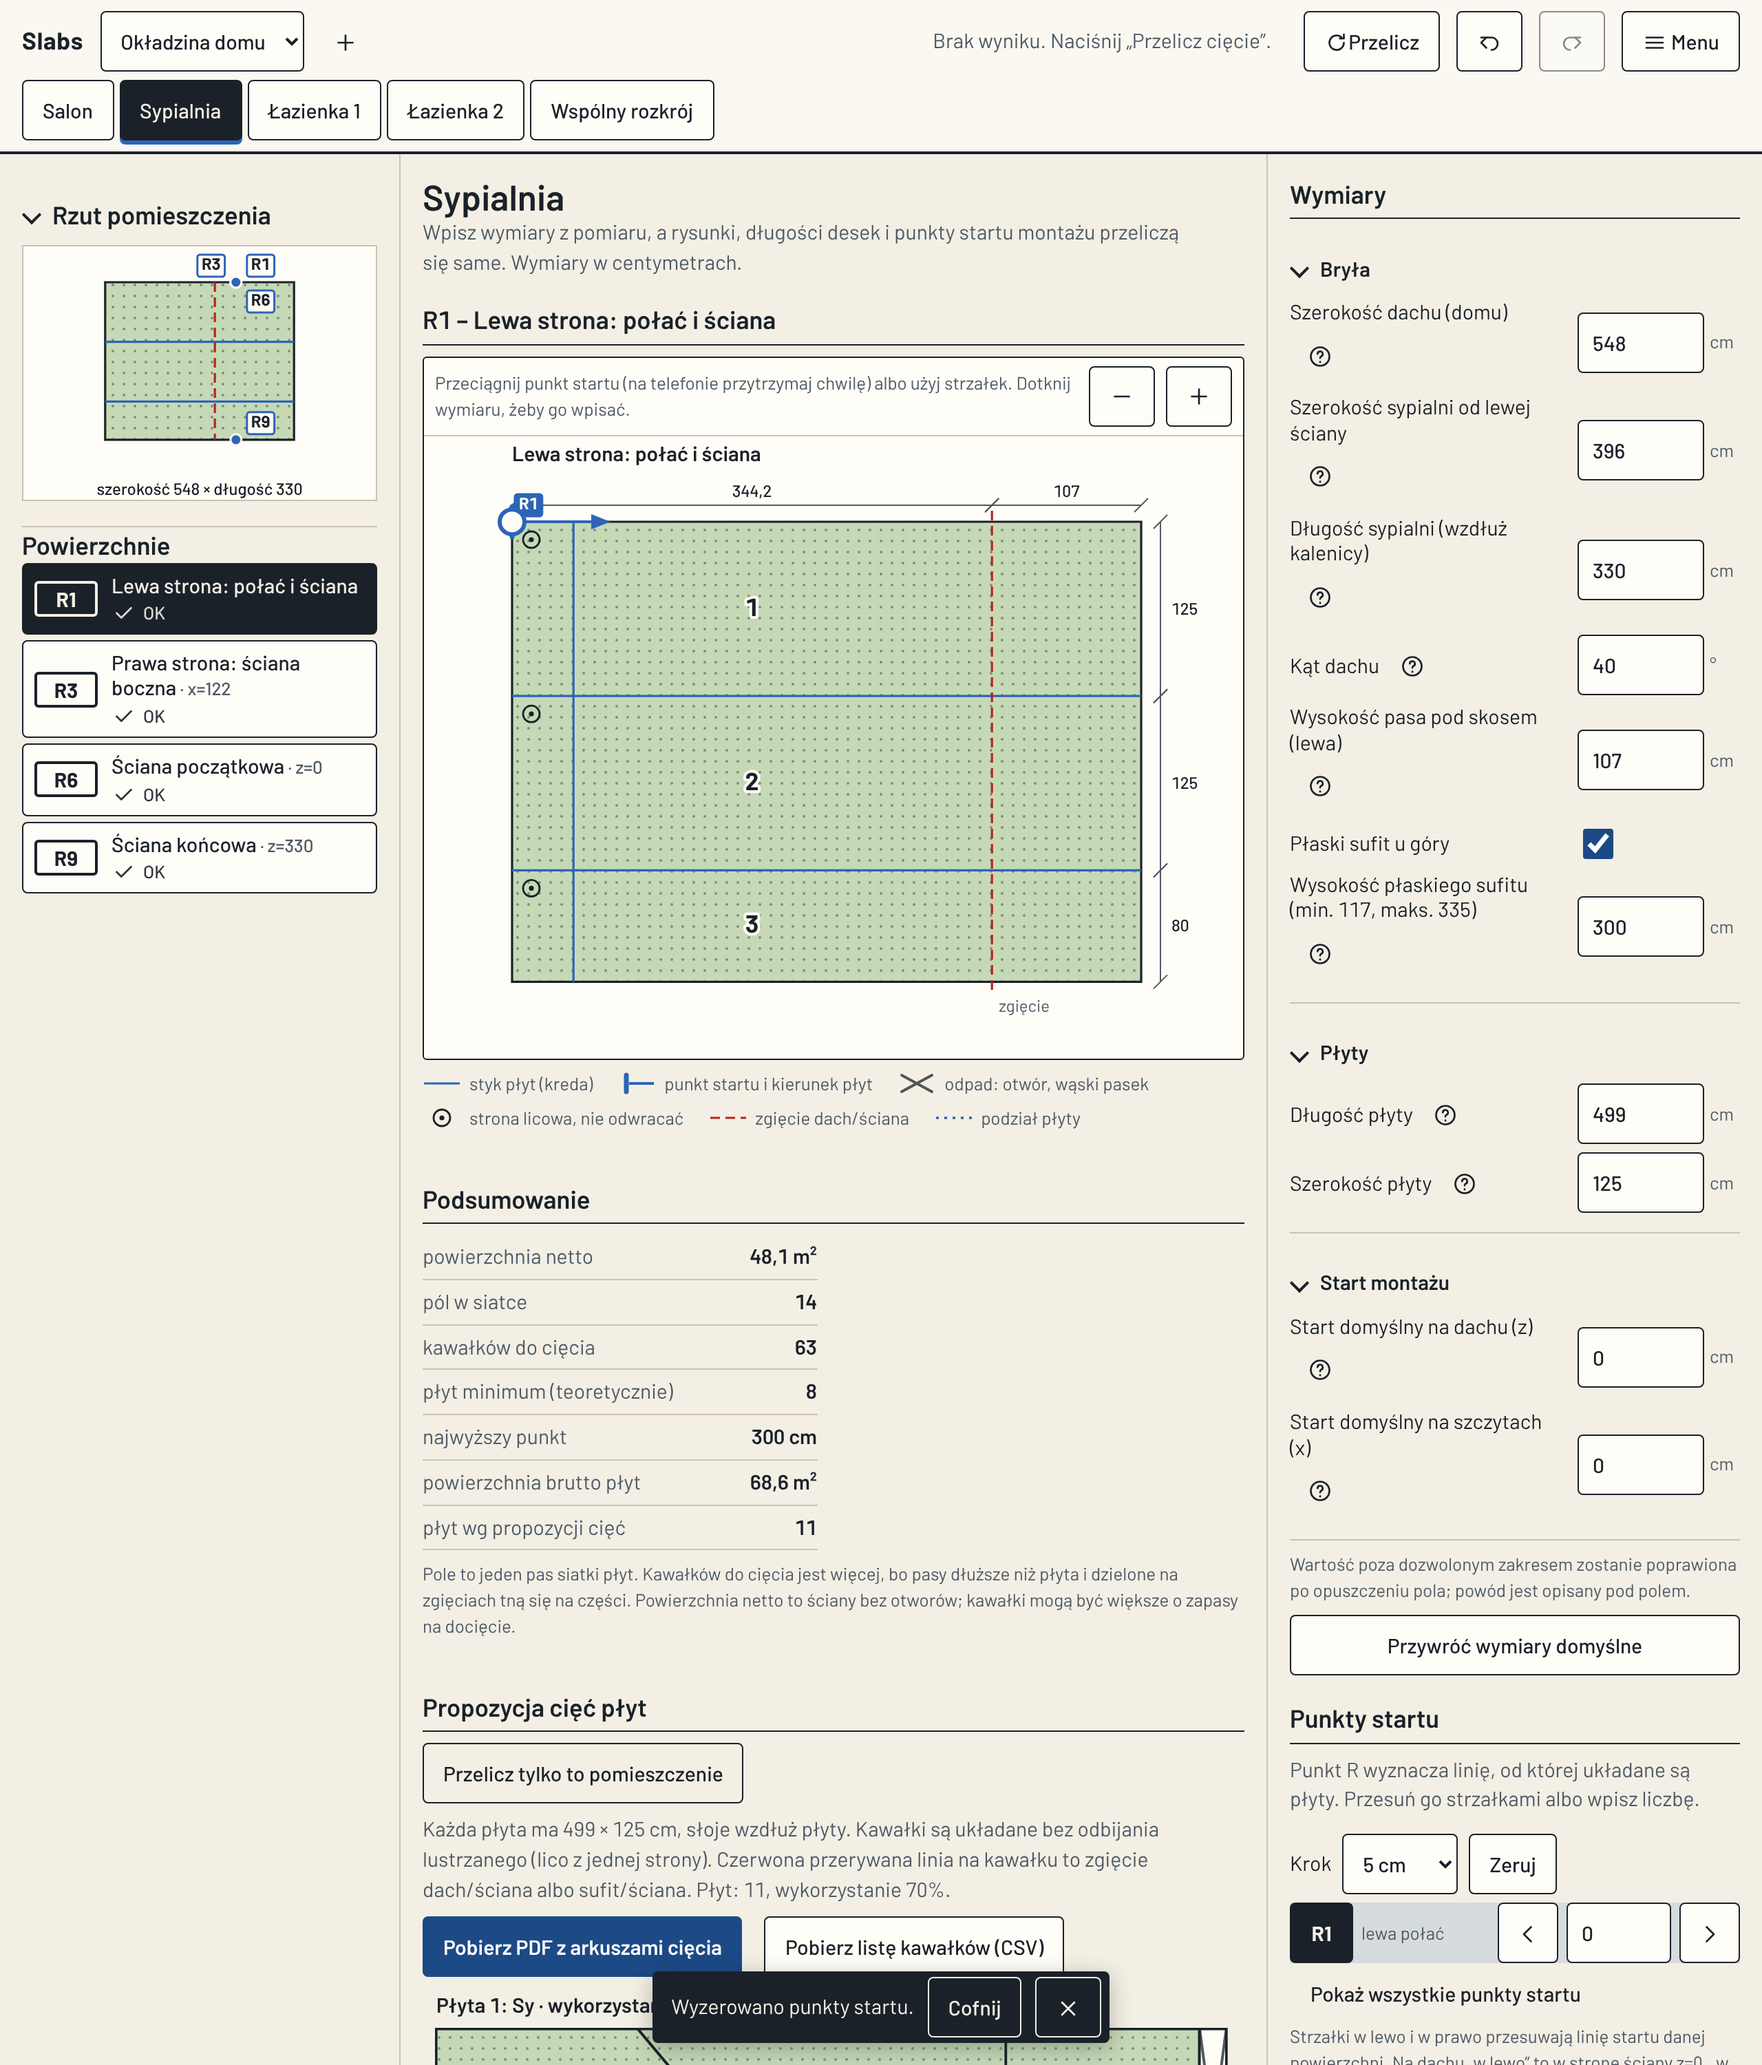
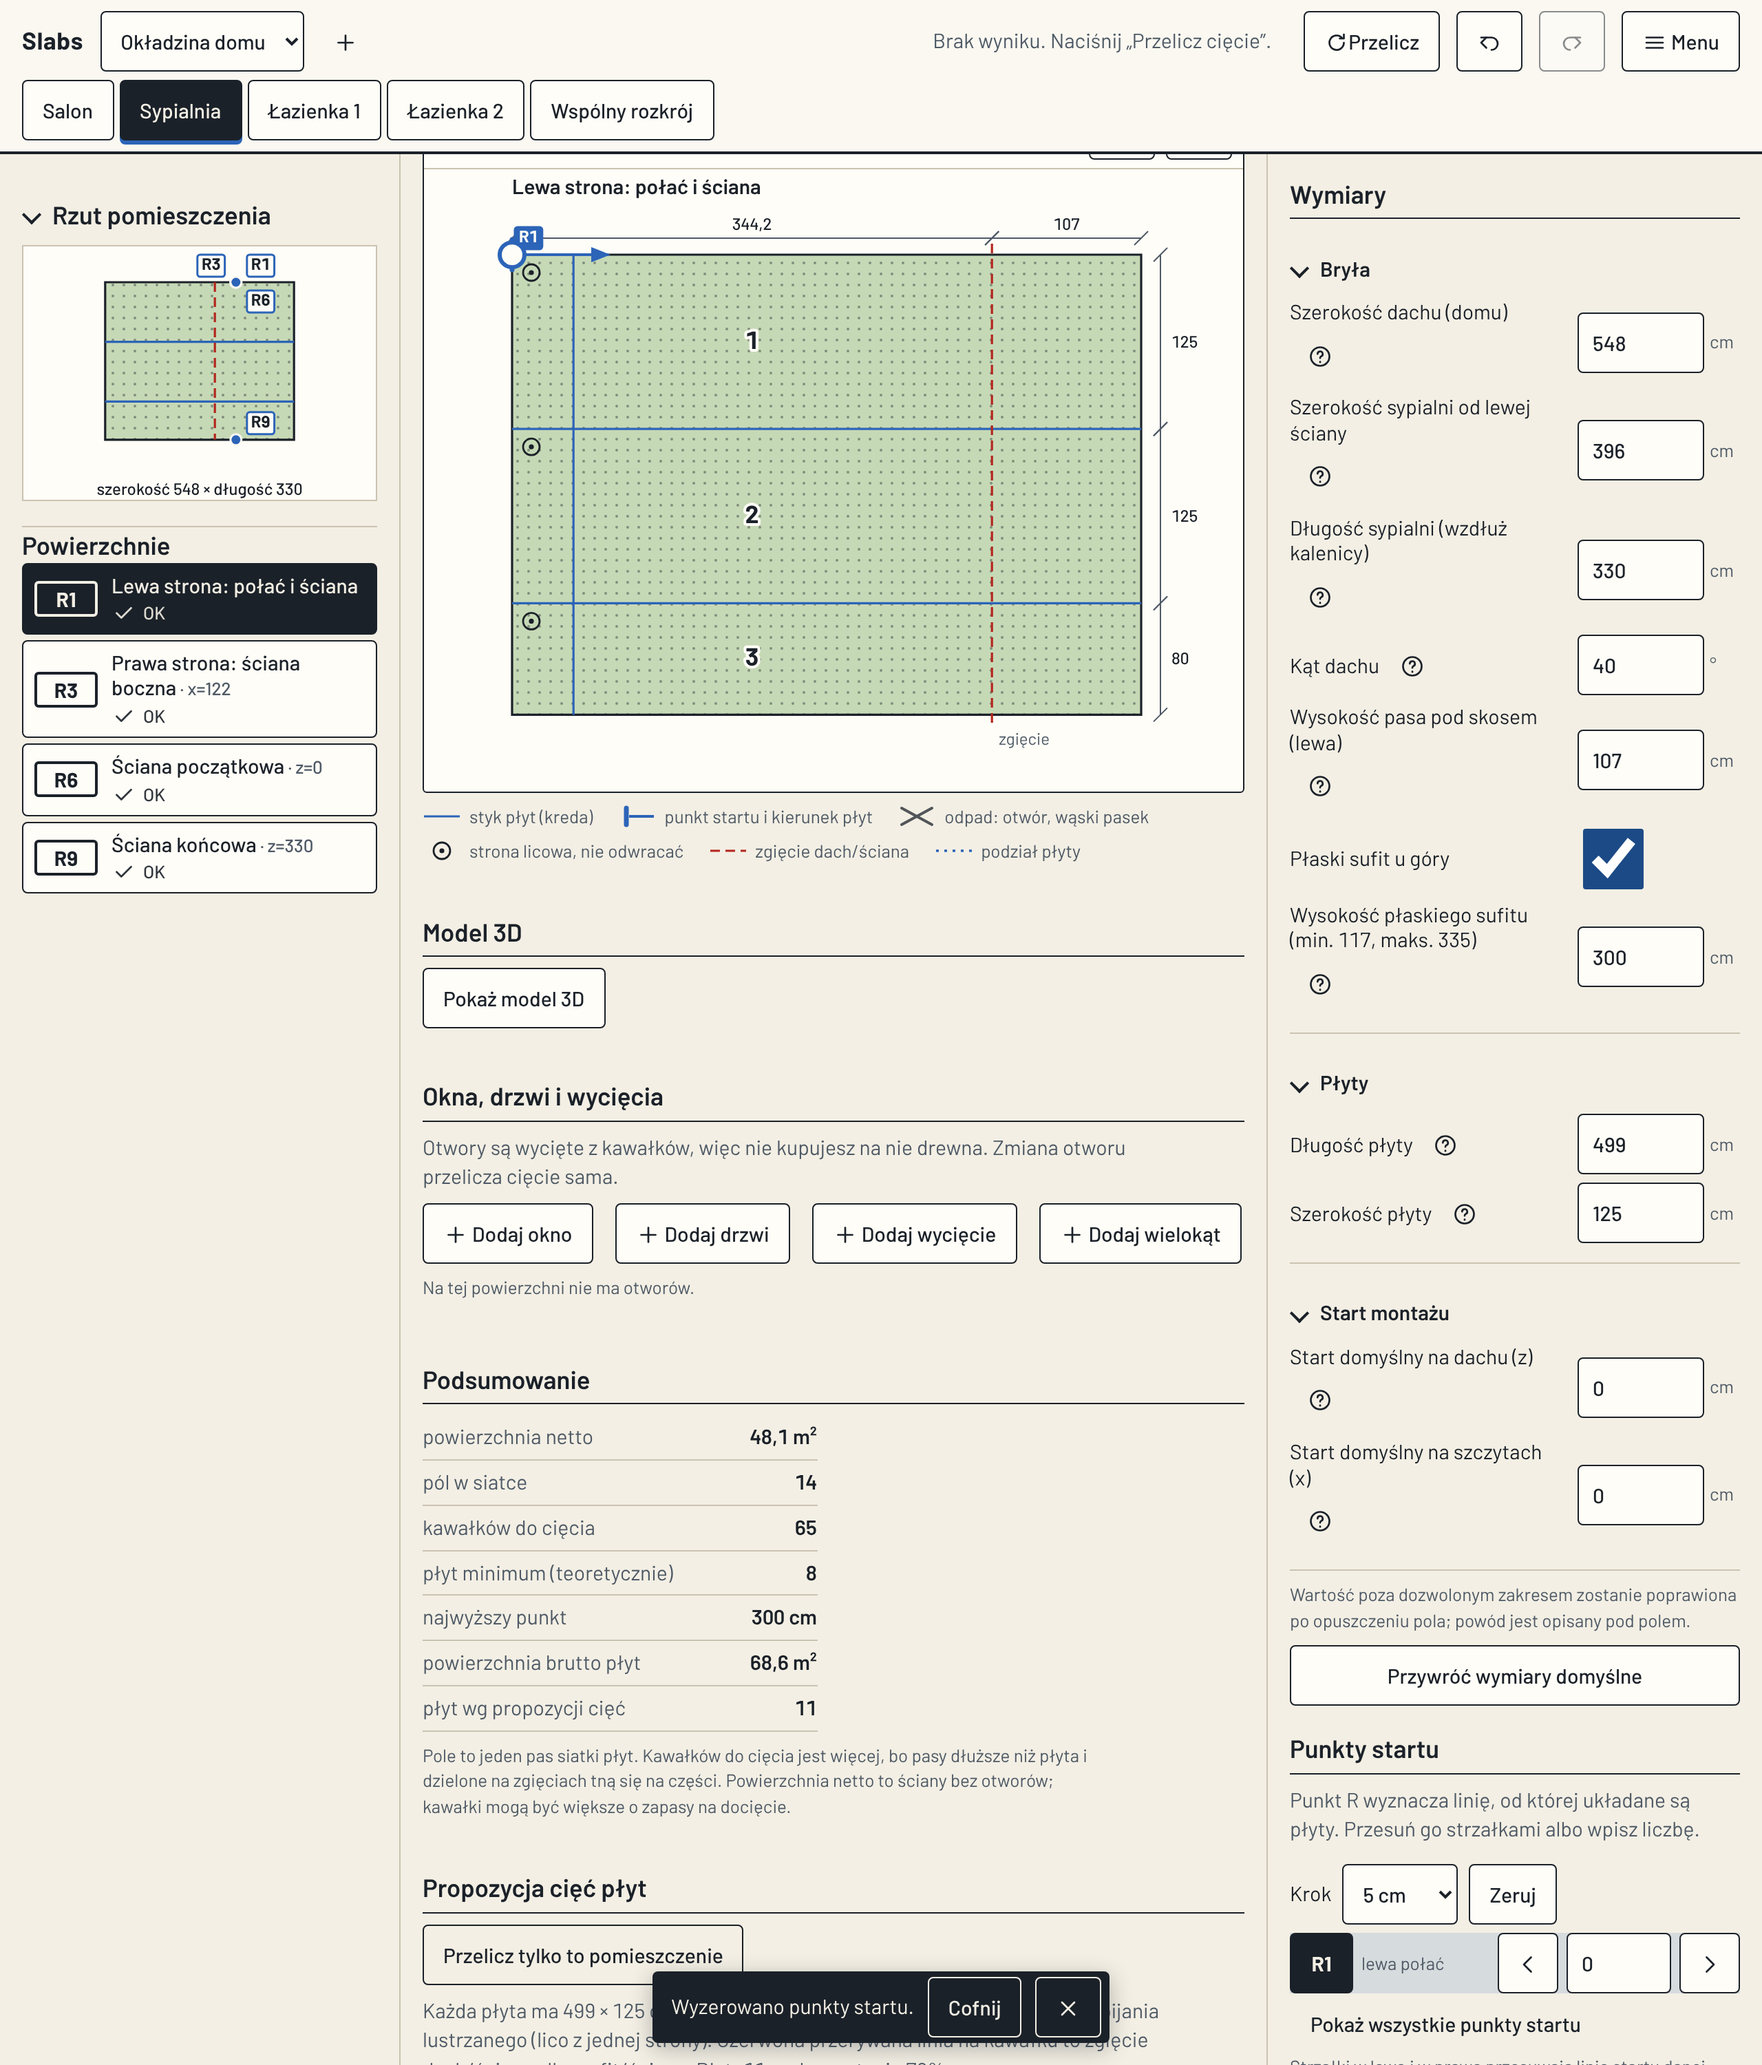
Final critique pass: 3D toggle state, dimension lines on rectangle openings, screenshots, STATUS with the critique score (30/40) and open items
Claude-Session: https://claude.ai/code/session_01HB857mLVA1wKWAcoEziQwD

diff --git a/packages/render/src/marks.ts b/packages/render/src/marks.ts
@@ -174,13 +174,22 @@ export interface SurfaceMap {
 }
 export interface MarkResult extends Drawing { start?: StartHandle; measures?: MeasureTarget[]; map?: SurfaceMap }
 
-function openingMarks(ops: Opening[] | undefined, px: (a: number, b: number) => [number, number], L: Labels): string {
+function openingMarks(ops: Opening[] | undefined, px: (a: number, b: number) => [number, number], L: Labels, nf: (v: number) => string = (v) => String(f(v))): string {
   let g = '';
   (ops ?? []).forEach((op) => {
     const q = op.pts.map((v) => px(v[0], v[1]));
     g += holeMark(q);
     const cx = q.reduce((a, v) => a + v[0], 0) / q.length, cy = q.reduce((a, v) => a + v[1], 0) / q.length;
     g += text(cx, cy - 4, op.kind === 'window' ? L.window : op.kind === 'door' ? L.door : L.cutout, 'mk-note');
+    // axis-aligned rectangle: its width and height as dimension lines (a missing measurement would be dashed)
+    const xs = q.map((v) => v[0]), ys = q.map((v) => v[1]);
+    const rect = op.pts.length === 4 && new Set(xs.map(Math.round)).size === 2 && new Set(ys.map(Math.round)).size === 2;
+    if (rect) {
+      const x0 = Math.min(...xs), x1 = Math.max(...xs), y0 = Math.min(...ys), y1 = Math.max(...ys);
+      const ca = op.pts.map((v) => v[0]), cb = op.pts.map((v) => v[1]);
+      g += dimLine(x0, y0 - 8, x1, y0 - 8, nf(Math.max(...ca) - Math.min(...ca)), -1);
+      g += dimLine(x1 + 8, y0, x1 + 8, y1, nf(Math.max(...cb) - Math.min(...cb)), 1);
+    }
   });
   return g;
 }
@@ -237,7 +246,7 @@ export function boardMarks(s: BoardSurface, roomKey: string, o: MarkOptions, sel
     const cx = X((st + Math.min(en, u)) / 2);
     g += `<g class="mk-field"><text x="${n1(cx)}" y="${n1(cy + 5)}" class="mk-num" text-anchor="middle">${c.id}</text></g>` + ((c.b - c.a) * sc >= 22 ? faceMark(X(st) + 14, Y(c.a) + 13) : '');
   });
-  g += openingMarks(o.openings, (a, b) => [X(a), Y(b)], L);
+  g += openingMarks(o.openings, (a, b) => [X(a), Y(b)], L, nf);
   // plate joints: chalk lines, the start line heavier
   s.cols.slice(1).forEach((c) => {
     const x0 = notch && c.a > notch[0] ? notch[1] : 0;
@@ -324,7 +333,7 @@ export function gableMarks(m: AtticModel, w: GableWall, roomKey: string, o: Mark
     const cxw = wp.reduce((a, q) => a + q[0], 0) / wp.length, cyw = wp.reduce((a, q) => a + q[1], 0) / wp.length;
     g += text(cxw, cyw - 22, L.window, 'mk-note');
   }
-  g += openingMarks(o.openings, (x, h) => [X(x), Yh(h)], L);
+  g += openingMarks(o.openings, (x, h) => [X(x), Yh(h)], L, nf);
   if (w.bs > 0) {
     g += holeMark([[X(w.x0), Yh(w.bs)], [X(w.x1), Yh(w.bs)], [X(w.x1), Yh(0)], [X(w.x0), Yh(0)]]);
     g += text(X((w.x0 + w.x1) / 2), Yh(w.bs / 2) + 4, `${L.cutout} ${nf(w.bs)}`, 'mk-note');

diff --git a/packages/web/src/components/View3D.tsx b/packages/web/src/components/View3D.tsx
@@ -4,6 +4,7 @@ import { Html, Line, OrbitControls } from '@react-three/drei';
 import { BufferGeometry, DoubleSide, Float32BufferAttribute, ShapeUtils, Spherical, Vector2, Vector3 } from 'three';
 import { roomMesh, type Face3, type Mesh3D, type RoomModel, type V3 } from '@slabs/core';
 import { s } from '../i18n';
+import { IconCheck } from './Icons';
 import { useStore } from '../state/store';
 
 /** Triangles of a planar polygon (any outline, not only convex ones): project onto the plane it lies in and triangulate. */
@@ -77,7 +78,7 @@ export default function View3D({ model, name }: { model: RoomModel; name: string
     <div className="view3d">
       <div className="v3-bar" role="group" aria-label={s.view3d.options}>
         {([[roof, setRoof, s.view3d.roof], [grid, setGrid, s.view3d.grid], [numbers, setNumbers, s.view3d.numbers], [refs, setRefs, s.view3d.refs]] as const).map(([v, set, label]) => (
-          <button key={label} type="button" aria-pressed={v} onClick={() => set(!v)}>{label}</button>
+          <button key={label} type="button" aria-pressed={v} onClick={() => set(!v)}>{v && <IconCheck />} {label}</button>
         ))}
       </div>
       <div className="v3-canvas" tabIndex={0} role="group" aria-label={s.view3d.canvasLabel(name)} aria-describedby="v3-help v3-sum" onKeyDown={key}>

diff --git a/docs/STATUS.md b/docs/STATUS.md
@@ -73,12 +73,23 @@ The artifact places gable strips taller than the plate sticking out of it (and c
 * Phone input font stays at 15 px (DESIGN ramp) although iOS may zoom on focus.
 * "Przelicz" is a secondary action now (the cut recalculates ~700 ms after every edit); DESIGN.md updated accordingly.
 
+## Final Impeccable critique of the room screen (after A, B, C)
+
+* **Score 30/40** (design review; target was >= 32, **not reached**). Detector (A/B isolated sub-agents): no source findings; browser: no overflow, no text < 12 px, no contrast failures; open items were 22 px checkboxes, 42 px skip links, text-occlusion warnings that come from transparent hit layers over the drawing.
+* P1 findings fixed once: (1) 3D toggles had no visible on/off difference, now a check icon when on; (2) opening linework lacked dimension lines, rectangle openings now carry width and height dimension lines. Detector P2/P3 fixed: 44 px checkboxes and skip links, 66ch notes.
+* **Not fixed (open, for the next pass):** warnings count does not link to the first problem or say how to fix a sliver; the default salon window is a non-rectangular polygon, so it has no dimension lines (only vertex handles); the inspector is still a long flat field list and surface-specific data (openings) sits under the drawing rather than beside it; 12+ controls in the top bar on desktop; jargon ("Wnęka na zasłony", coordinates in list rows).
+
 ## Test results (last run)
 
-* `pnpm test`: 687 tests passed (parity incl. 96 known-bug checks, property tests incl. trust-in-results, settings, render parity/snapshot).
-  Property tests use a fixed seed (20260); try others with `FC_SEED=3 pnpm test`. Seeds 1-12 pass.
-* `pnpm e2e`: all checks passed (5 tabs, per-room edit/shift/cut, shared cut = 35 plates with artifact settings, reload autosave, theme, share link, phone width, no console errors).
-* `pnpm typecheck`, `pnpm lint`, `pnpm build`: clean.
+* `pnpm test`: 724 tests passed (parity, properties, settings, render snapshots, cut sheets, marks/plates, openings, 3D scene, editing helpers, store, i18n). `pnpm e2e`: all checks passed (desktop and 390 px: tabs pattern, empty field, dependent limit reason, openings add/drag/delete with auto re-cut, 3D lazy chunk, phone status bar and bottom sheet, PDF, CSV). `pnpm typecheck`, `pnpm lint`, `pnpm build`: clean. Screenshots in `docs/screenshots/` (1280 px and 390 px) refreshed after A, B and C.
+
+## Known gaps / notes
+
+* Not done: M4b (draw the room), M5c (optimise start), M7 project list / PWA / duplicate project, M8; openings are not drawn in 3D and not dragged in 3D; recess/built-in stay parametric (see above); A3 sheets, sticker labels, tick-off workshop view.
+* New projects default to kerf 3 mm, so the default shared cut is not the artifact's number by construction ("Jak w pierwowzorze" = kerf 0, no allowances, and the window cut out of the pieces, which is a known artifact difference).
+* The per-room cut uses the shared MaxRects engine; the shelf packer stays for parity only. The shared-cut search uses a fixed iteration count (2000) so results are identical on every device.
+* Share links carry the whole project (incl. openings); very large projects may exceed URL limits.
+* Build base is `./` and there is no service worker, so the build also works as a claude.ai artifact from a sub-path.
 
 ## Undo / redo (item 2)
 
